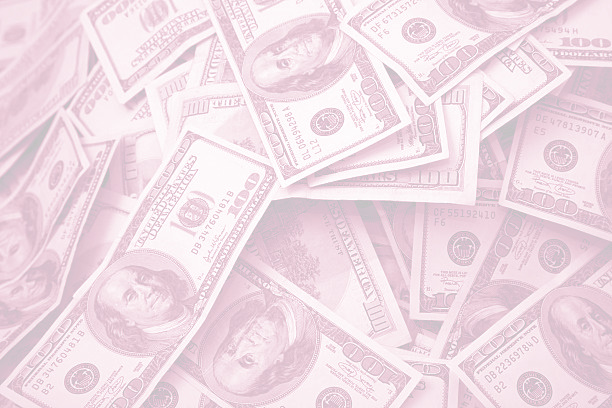
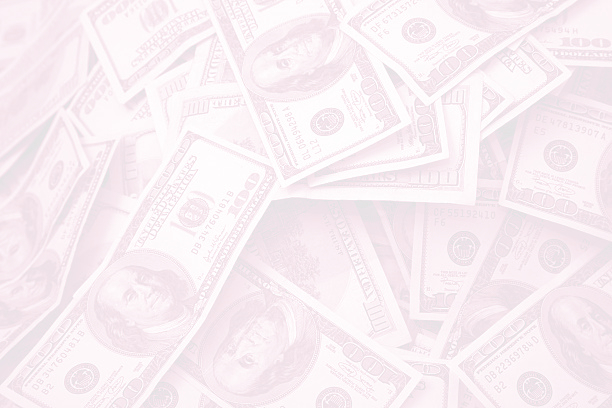
change of the background

diff --git a/form.css b/form.css
@@ -1,11 +1,9 @@
 .form {
     margin-top: 20px;
-    background-color: hsl(240, 67%, 94%);
+    background-image: url("images/share.jpg");
     color: hsl(240, 67%, 15%);
     border-radius: 5px;
     padding: 15px;
-    box-shadow: 5px -5px 24px 0px #DDDDDD,
-        inset 0px 0px 13px 0px #5353DF;
 }
 
 .form__labelText {
@@ -15,15 +13,13 @@
 }
 
 .form__fieldset {
-    background-color: hsl(240, 68%, 94%);
     border: 1px solid hsl(240, 69%, 75%);
     padding: 20px;
     border-radius: 5px;
-    margin:15px;
+    margin: 15px;
 }
 
 .form__fieldsetInput {
-    background-color: hsl(240, 68%, 94%);
     border: 1px solid hsl(240, 69%, 75%);
     padding: 5px;
     max-width: 100%;
@@ -33,15 +29,16 @@
 .form__button {
     width: 100%;
     margin-bottom: 10px;
+    background: transparent;
     border: 1px solid hsl(240, 67%, 75%);
     padding: 5px;
     border-radius: 5px;
-    background-color: hsl(240, 67%, 94%);
     color: hsl(240, 67%, 15%);
 }
 
 .form__button:hover {
-    background-color: hsl(240, 67%, 90%);
+    border: 1px solid hsl(240, 67%, 40%);
+    cursor: pointer;
 }
 
 .form__result {

diff --git a/style.css b/style.css
@@ -12,4 +12,4 @@ html {
     max-width: 600px;
     font-family: 'Source Sans 3', sans-serif;
     margin: 5px auto;
-}
+   }
